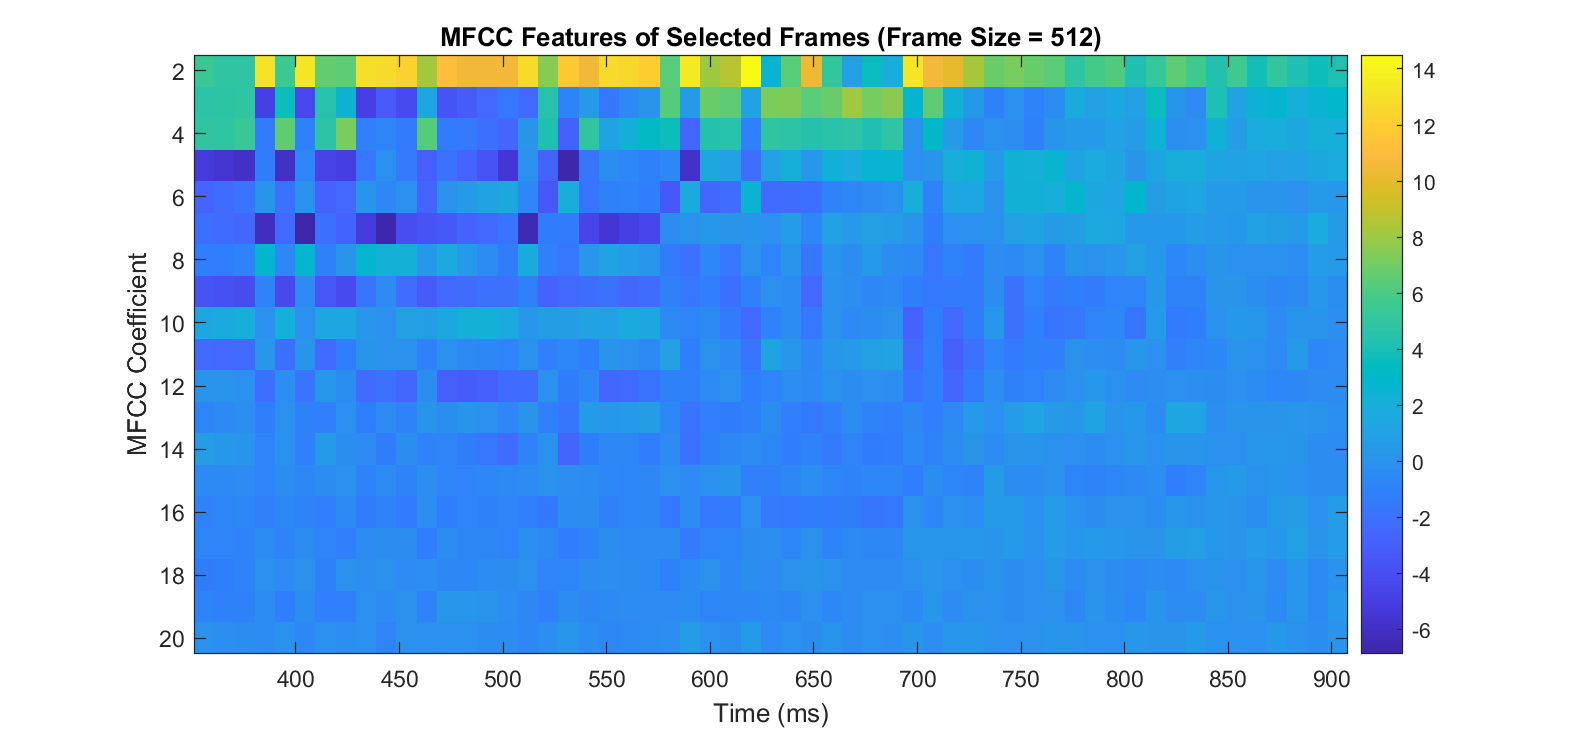
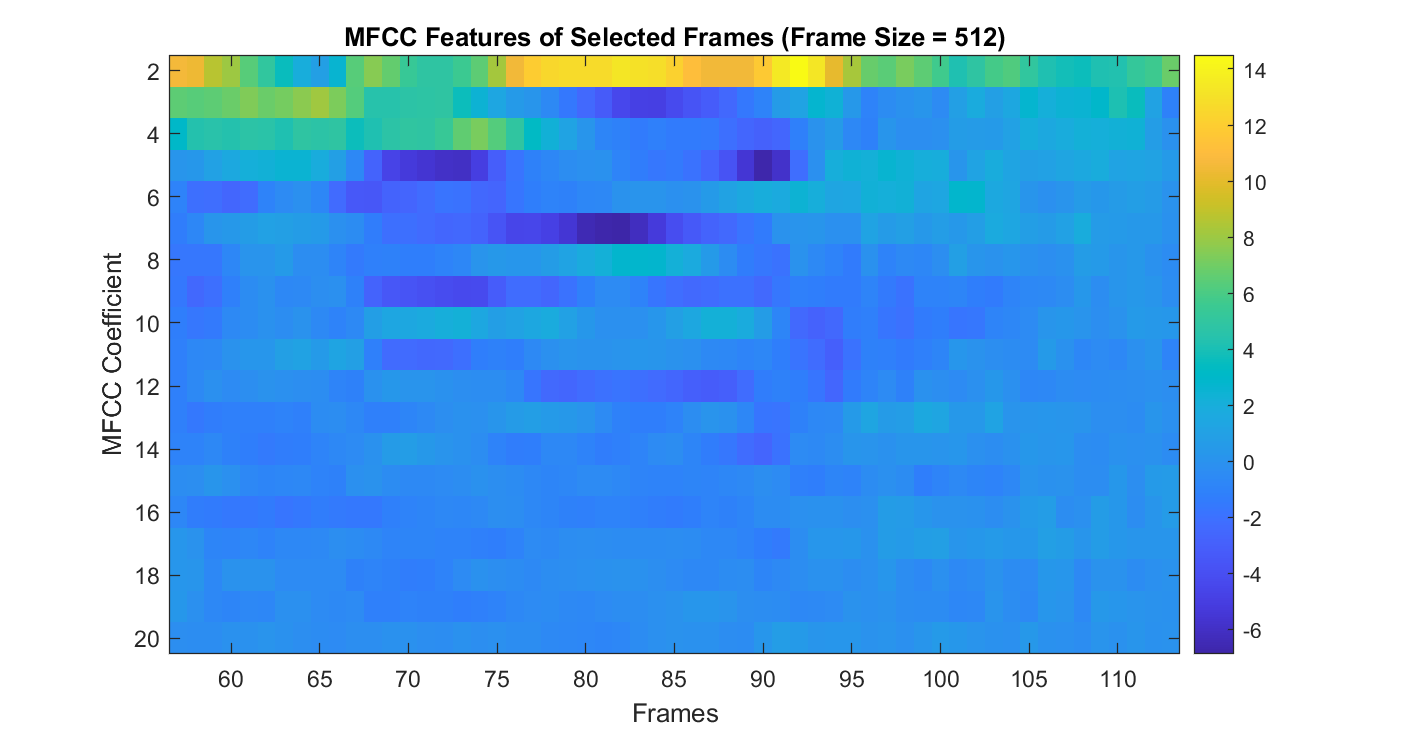
Selected MFCC

diff --git a/mfcc_selected.m b/mfcc_selected.m
@@ -37,37 +37,21 @@ function mfcc_features = mfcc_selected(file_name, N, num_mel_filters, mfcc_coeff
 
     stft_result = stft_result(1:N/2+1, :);
 
-    % % Compute MFCC for each frame
-    % for i = 1:num_frames
-    %     frame_start = (i-1)*M + 1;
-    %     frame = y(frame_start:frame_start+N-1) .* window;
-        
-    %     % Power spectrum
-    %     power_spectrum = abs(fft(frame)).^2;
-    %     power_spectrum = power_spectrum(1:N/2+1);
-        
-    %     % Apply mel filterbank
-    %     mel_energies = mel_filters * power_spectrum;
-        
-    %     % Apply DCT to get MFCC
-    %     mfcc = dct(log(mel_energies(1:mfcc_coeff)));
-        
-    %     % Keep only the specified number of coefficients
-    %     mfcc_features(:, i) = mfcc(2:end);
-    % end
-
-    % Select frames with high energy
+    % Compute the energy of each frame
     energy_per_frame = sum(stft_result, 1);
-    [sorted_energy, sorted_indices] = sort(energy_per_frame, 'descend');
-    num_selected_frames = ceil(num_frames*selected);
-    selected_frames_indices = sorted_indices(1:num_selected_frames);
 
-    selected_mfcc_features = zeros(mfcc_coeff-1, num_selected_frames);
+    % Compute the threshold
+    threshold = quantile(energy_per_frame, 1 - selected);
+
+    % Select frame indices where energy is above or equal to the threshold 
+    selected_frames_indices = find(energy_per_frame >= threshold);
+
+    % Extract the selected frames
+    selected_stft_result = stft_result(:, selected_frames_indices);
 
     % Compute MFCC for each frame
-    for i = 1:num_selected_frames
-        frame_idx = selected_frames_indices(i);
-        power_spectrum = stft_result(:, frame_idx);
+    for i = 1:length(selected_frames_indices)
+        power_spectrum = selected_stft_result(:, i);
         
         % Apply mel filterbank
         mel_energies = mel_filters * power_spectrum;

diff --git a/mfcc_visual.m b/mfcc_visual.m
@@ -114,11 +114,14 @@ ylabel('MFCC Coefficient');
 title(sprintf('MFCC Features (Frame Size = %d)', N));
 
 %% Select frames with highest energy
-% Select frames with high energy
+% Compute the energy of each frame
 energy_per_frame = sum(stft_result, 1);
-[sorted_energy, sorted_indices] = sort(energy_per_frame, 'descend');
-num_selected_frames = ceil(num_frames*0.8);
-selected_frames_indices = sorted_indices(1:num_selected_frames);
+
+% Compute the threshold
+threshold = quantile(energy_per_frame, 1 - 0.8);
+
+% Select frame indices where energy is above or equal to the threshold 
+selected_frames_indices = find(energy_per_frame >= threshold);
 
 % Extract the selected frames
 selected_stft_result_db = stft_result_db(:, selected_frames_indices);
@@ -134,6 +137,7 @@ title('STFT Spectrogram of Selected Frames with Highest Energy');
 
 %% Compute MFCC features for selected frames
 % Initialize MFCC matrix
+num_selected_frames = length(selected_frames_indices);
 selected_mfcc_features = zeros(mfcc_coeff-1, num_selected_frames);
 
 % Compute MFCC for each frame
@@ -156,8 +160,8 @@ t = ((selected_frames_indices-1) * M) / Fs * 1000;  % Time in milliseconds
 
 % Plot MFCC features of selected frames
 figure;
-imagesc(t, 2:mfcc_coeff, selected_mfcc_features);
+imagesc(num_selected_frames, 2:mfcc_coeff, selected_mfcc_features);
 colorbar;
-xlabel('Time (ms)');
+xlabel('Frames');
 ylabel('MFCC Coefficient');
 title(sprintf('MFCC Features of Selected Frames (Frame Size = %d)', N));
